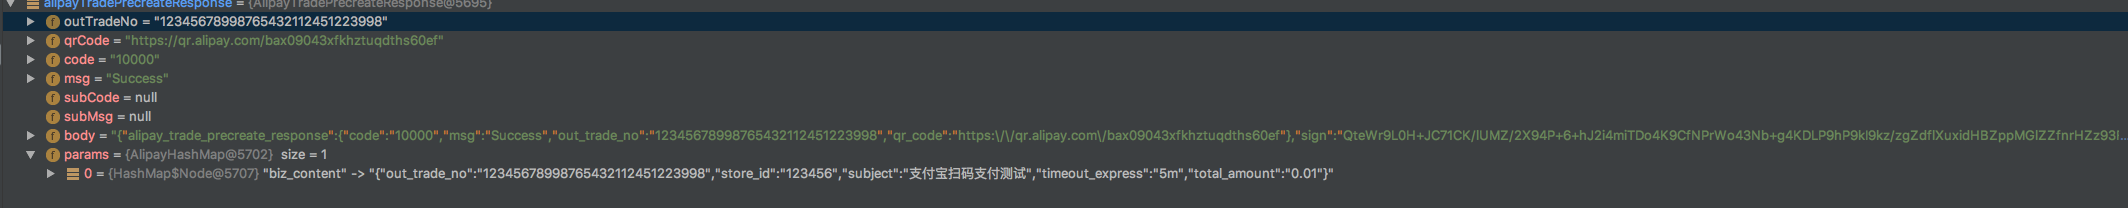
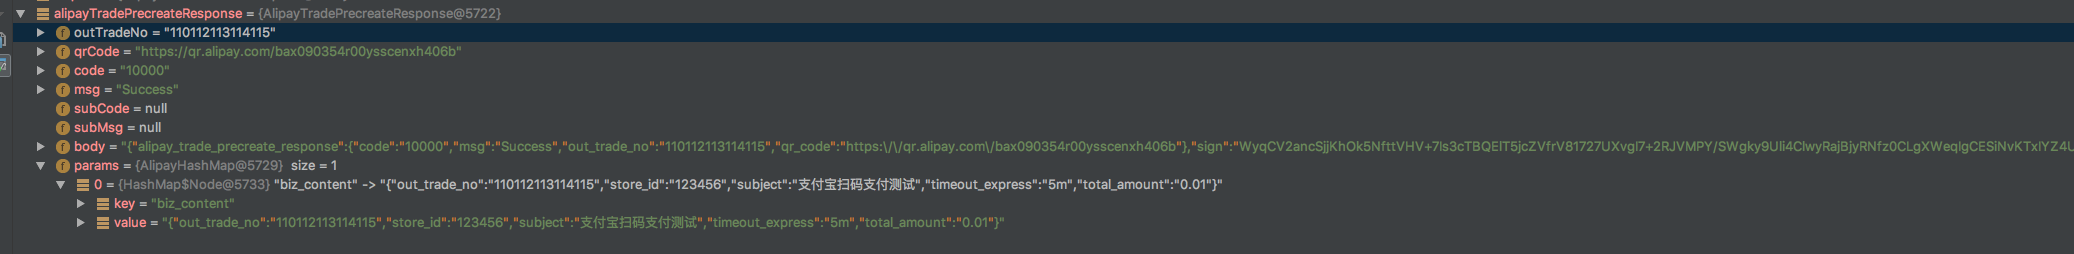
m

Changed region(s): [[0.0, 0.0, 1.0, 0.8942]]

diff --git a/README.md b/README.md
@@ -2,6 +2,7 @@
 支付宝支付
 
 ### 二维码生成接口
+    127.0.0.1:10086/qrcode?totalAmount=0.01&subject=支付宝扫码支付测试&storeId=123456&timeoutExpress=5m&outTradeNo=110112113114115
 
 ##### 描述: 生产支付所需的二维码链接地址(通过这个地址用插件生产二维码图片扫描进行支付)
 
@@ -36,18 +37,79 @@ https://docs.open.alipay.com/api_1/alipay.trade.pay/
 
 https://docs.open.alipay.com/api_1/alipay.trade.pay/
 
+得到二维码地址放到该网址去生产二维码：
+
+https://cli.im/
+
+<img src="https://github.com/niezhiliang/alipay/tree/master/pic/gen_qrcode.png" width = "900" height = "130" alt="失败" align=center />
 
 
 
 
 
+### 支付回调
+
+##### 描述: 支付回调是支付宝来访问你的地址，这个地址必须外网能够访问到（作用就是告诉你当前订单处于什么状态）
 
 
 
 
+### 通用退款接口
 
-退款测试
-127.0.0.1:10086/refund?refund_amount=0.01&out_trade_no=1526521879590&refund_reason=正常退款
-生成二维码
-退款查询
-127.0.0.1:10086/refund_query?trade_no=2018051721001004130581677197&out_trade_no=1526521879590&out_request_no=1526521879590
+    127.0.0.1:10086/refund?refund_amount=0.01&out_trade_no=110112113114115&refund_reason=正常退款
+
+##### 描述: 退款都可以使用这个接口来进行
+
+##### Request URL: 127.0.0.1:10086/refund
+
+##### Request Method: GET
+
+#### 参数：
+
+| 名称   | 类型 | 是否必须| 参数描述
+| :----: | :---: | :---: | :---:
+| refund_amount  |String|  必须  |   需要退款的金额，该金额不能大于订单金额,单位为元，支持两位小数
+| out_trade_no  |String|  必须  |  订单支付时传入的商户订单号,不能和 trade_no同时为空。
+| refund_reason  |String|  必须  |   退款的原因说明
+
+这里只是填了一些必要的参数，更多请求参数详情访问支付宝的开发文档
+
+https://docs.open.alipay.com/api_1/alipay.trade.refund/
+
+#### 响应:
+| 名称   | 类型 | 参数描述
+| :----: | :---: | :---:
+| code  |String| 响应码（10000为成功）
+| msg  |Object| 返回必要内容
+| out_trade_no  |String|  	商户订单号 
+| buyer_logon_id  |String| 支付者的支付宝账号(159****0143)
+| buyer_user_id  |String| 买家在支付宝的用户id(2088312544416136)
+| fund_change  |String| 本次退款是否发生了资金变化(Y/N)
+| gmt_refund_pay  |String| 退款支付时间
+| refund_fee  |String| 退款总金额
+| send_back_fee  |String| 退款总金额
+| refund_fee  |String| 退款总金额
+| refund_detail_item_list  |List<TradeFundBill>| 退款使用的资金渠道
+
+同样响应参数我也只要了一些我自己需要的，更多响应参数访问支付宝开发文档
+https://docs.open.alipay.com/api_1/alipay.trade.refund/
+
+
+### 退款查询接口
+
+127.0.0.1:10086/refund_query?trade_no=2018051821001004130589462290&out_trade_no=110112113114115&out_request_no=110112113114115
+##### 描述: 退款都可以使用这个接口来进行
+
+##### Request URL: 127.0.0.1:10086/refund_query
+
+##### Request Method: GET
+
+#### 参数：
+
+
+| 名称   | 类型 | 是否必须| 参数描述
+| :----: | :---: | :---: | :---:
+| trade_no  |String|  必须  |   支付宝交易号，和商户订单号不能同时为空
+| out_trade_no  |String|  必须  | 订单支付时传入的商户订单号,和支付宝交易号不能同时为空。 trade_no,out_trade_no如果同时存在优先取trade_no
+| out_request_no  |String|  必须  |   请求退款接口时，传入的退款请求号，如果在退款请求时未传入，则该值为创建交易时的外部交易号
+
